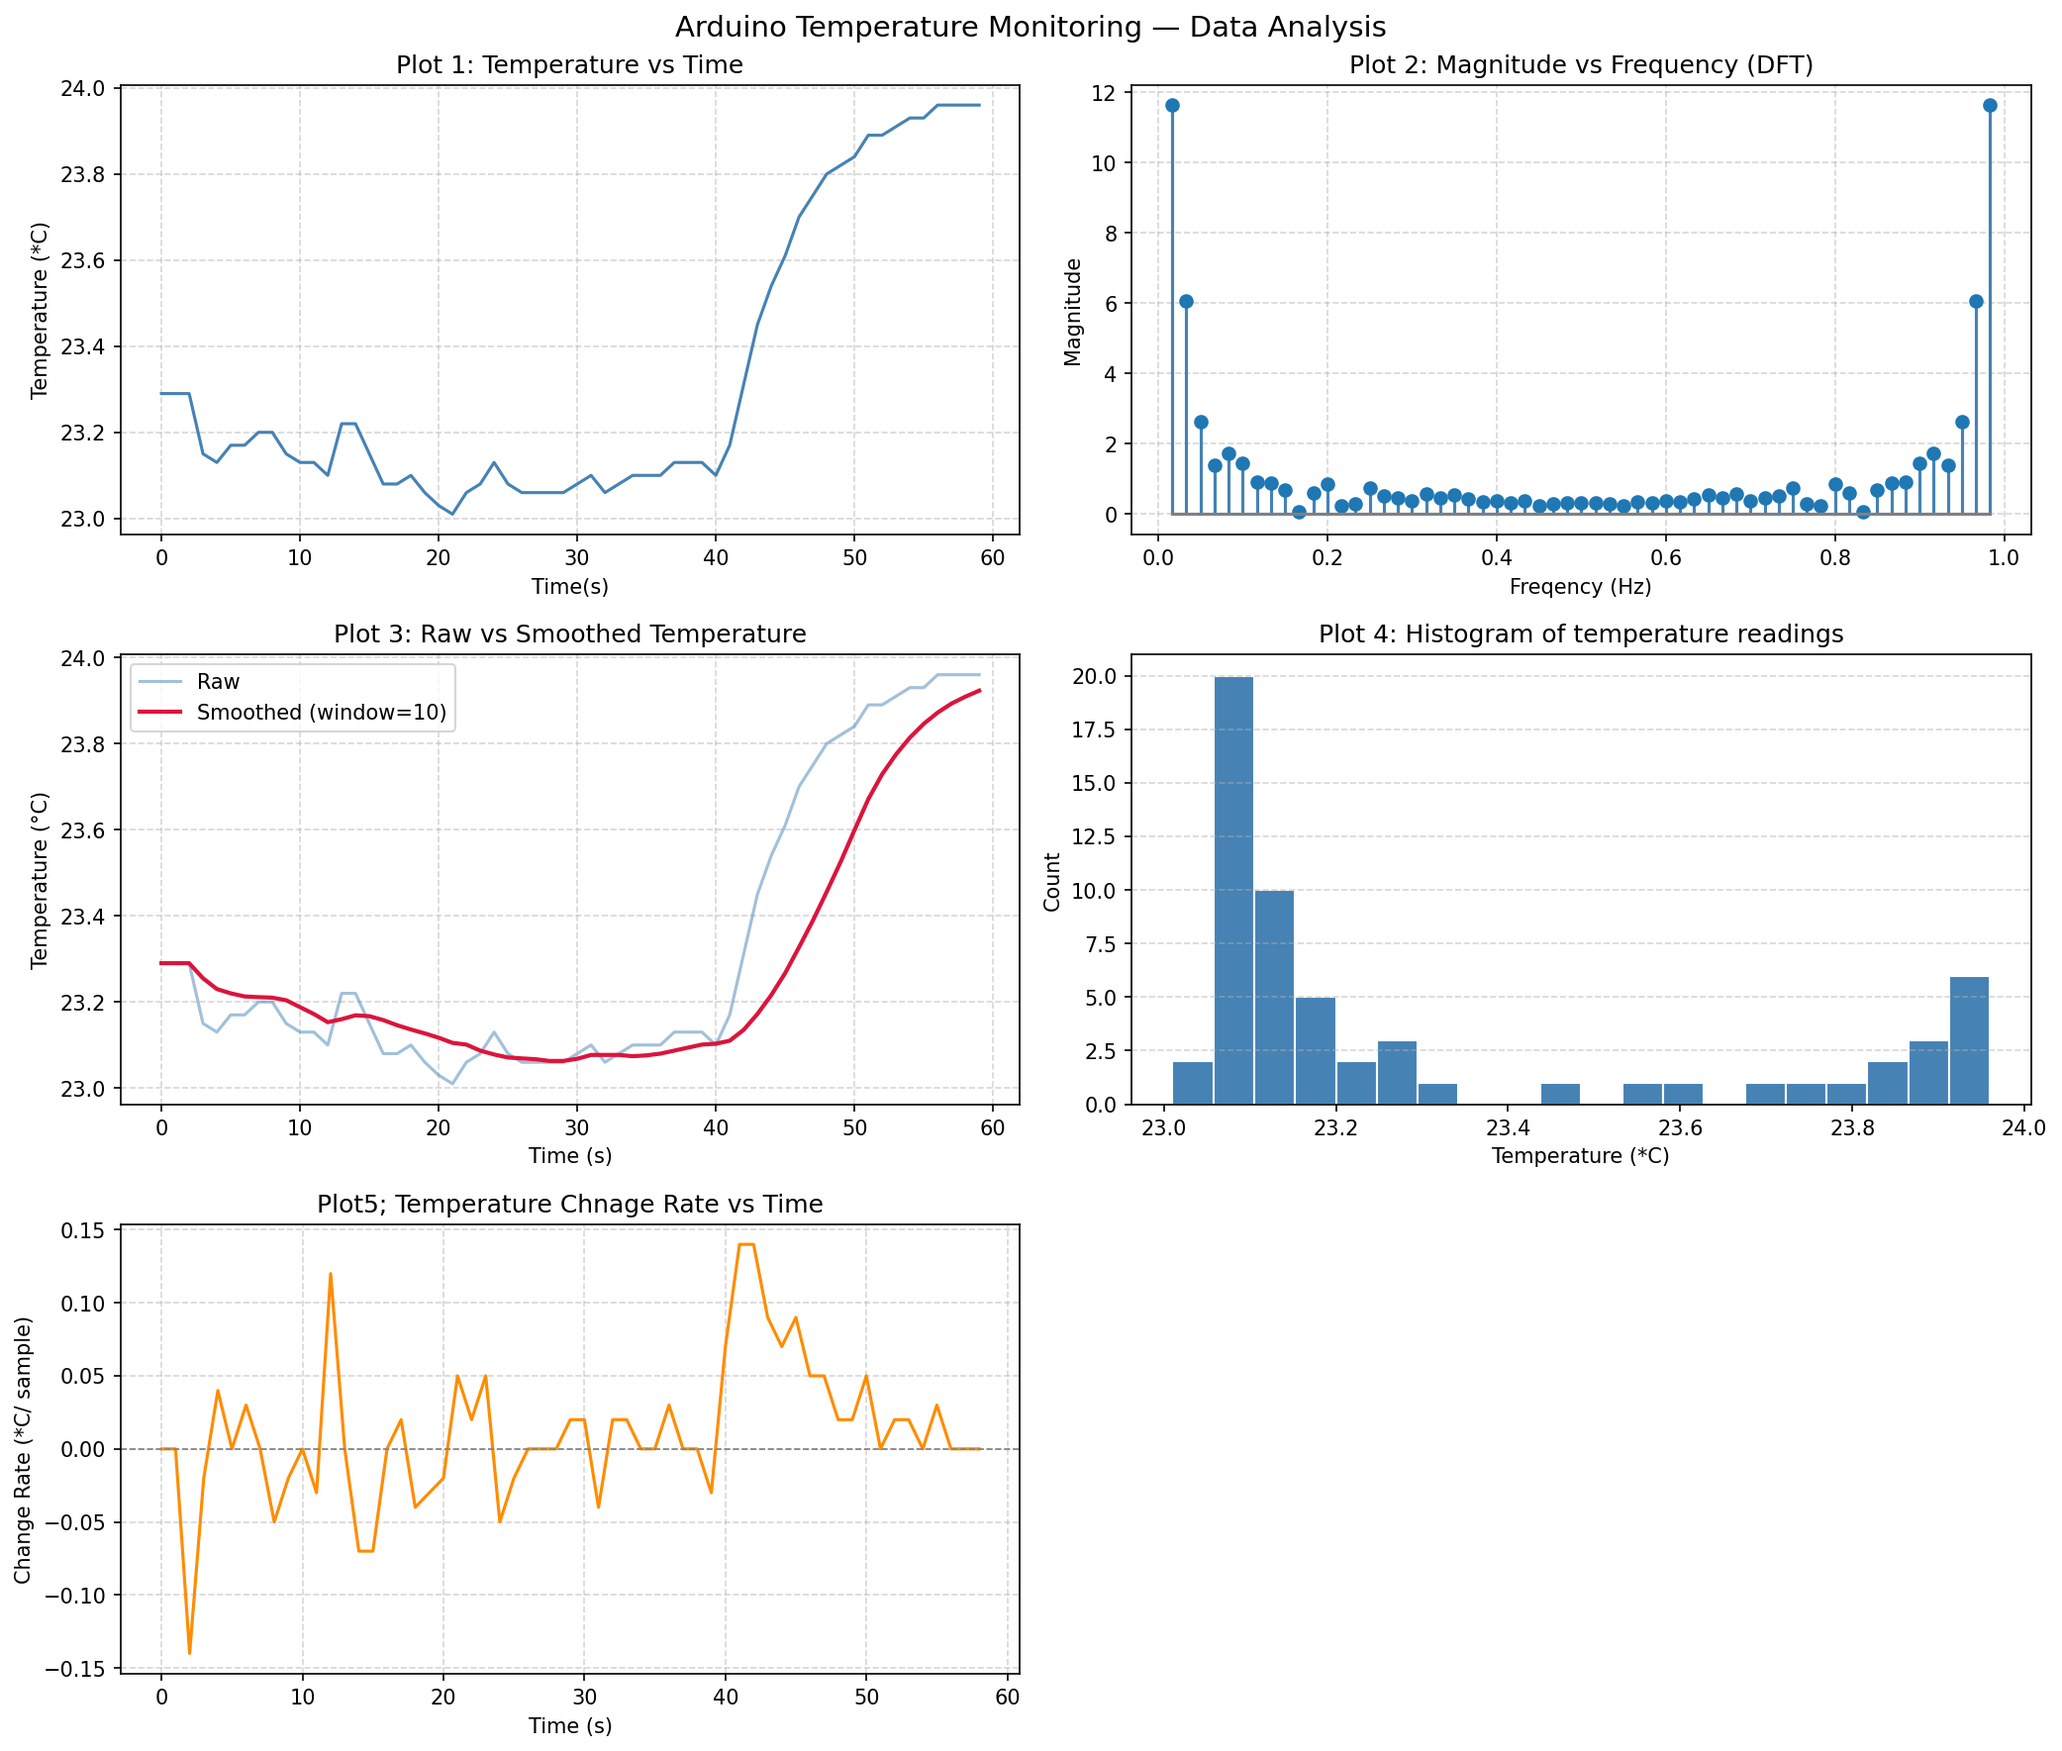
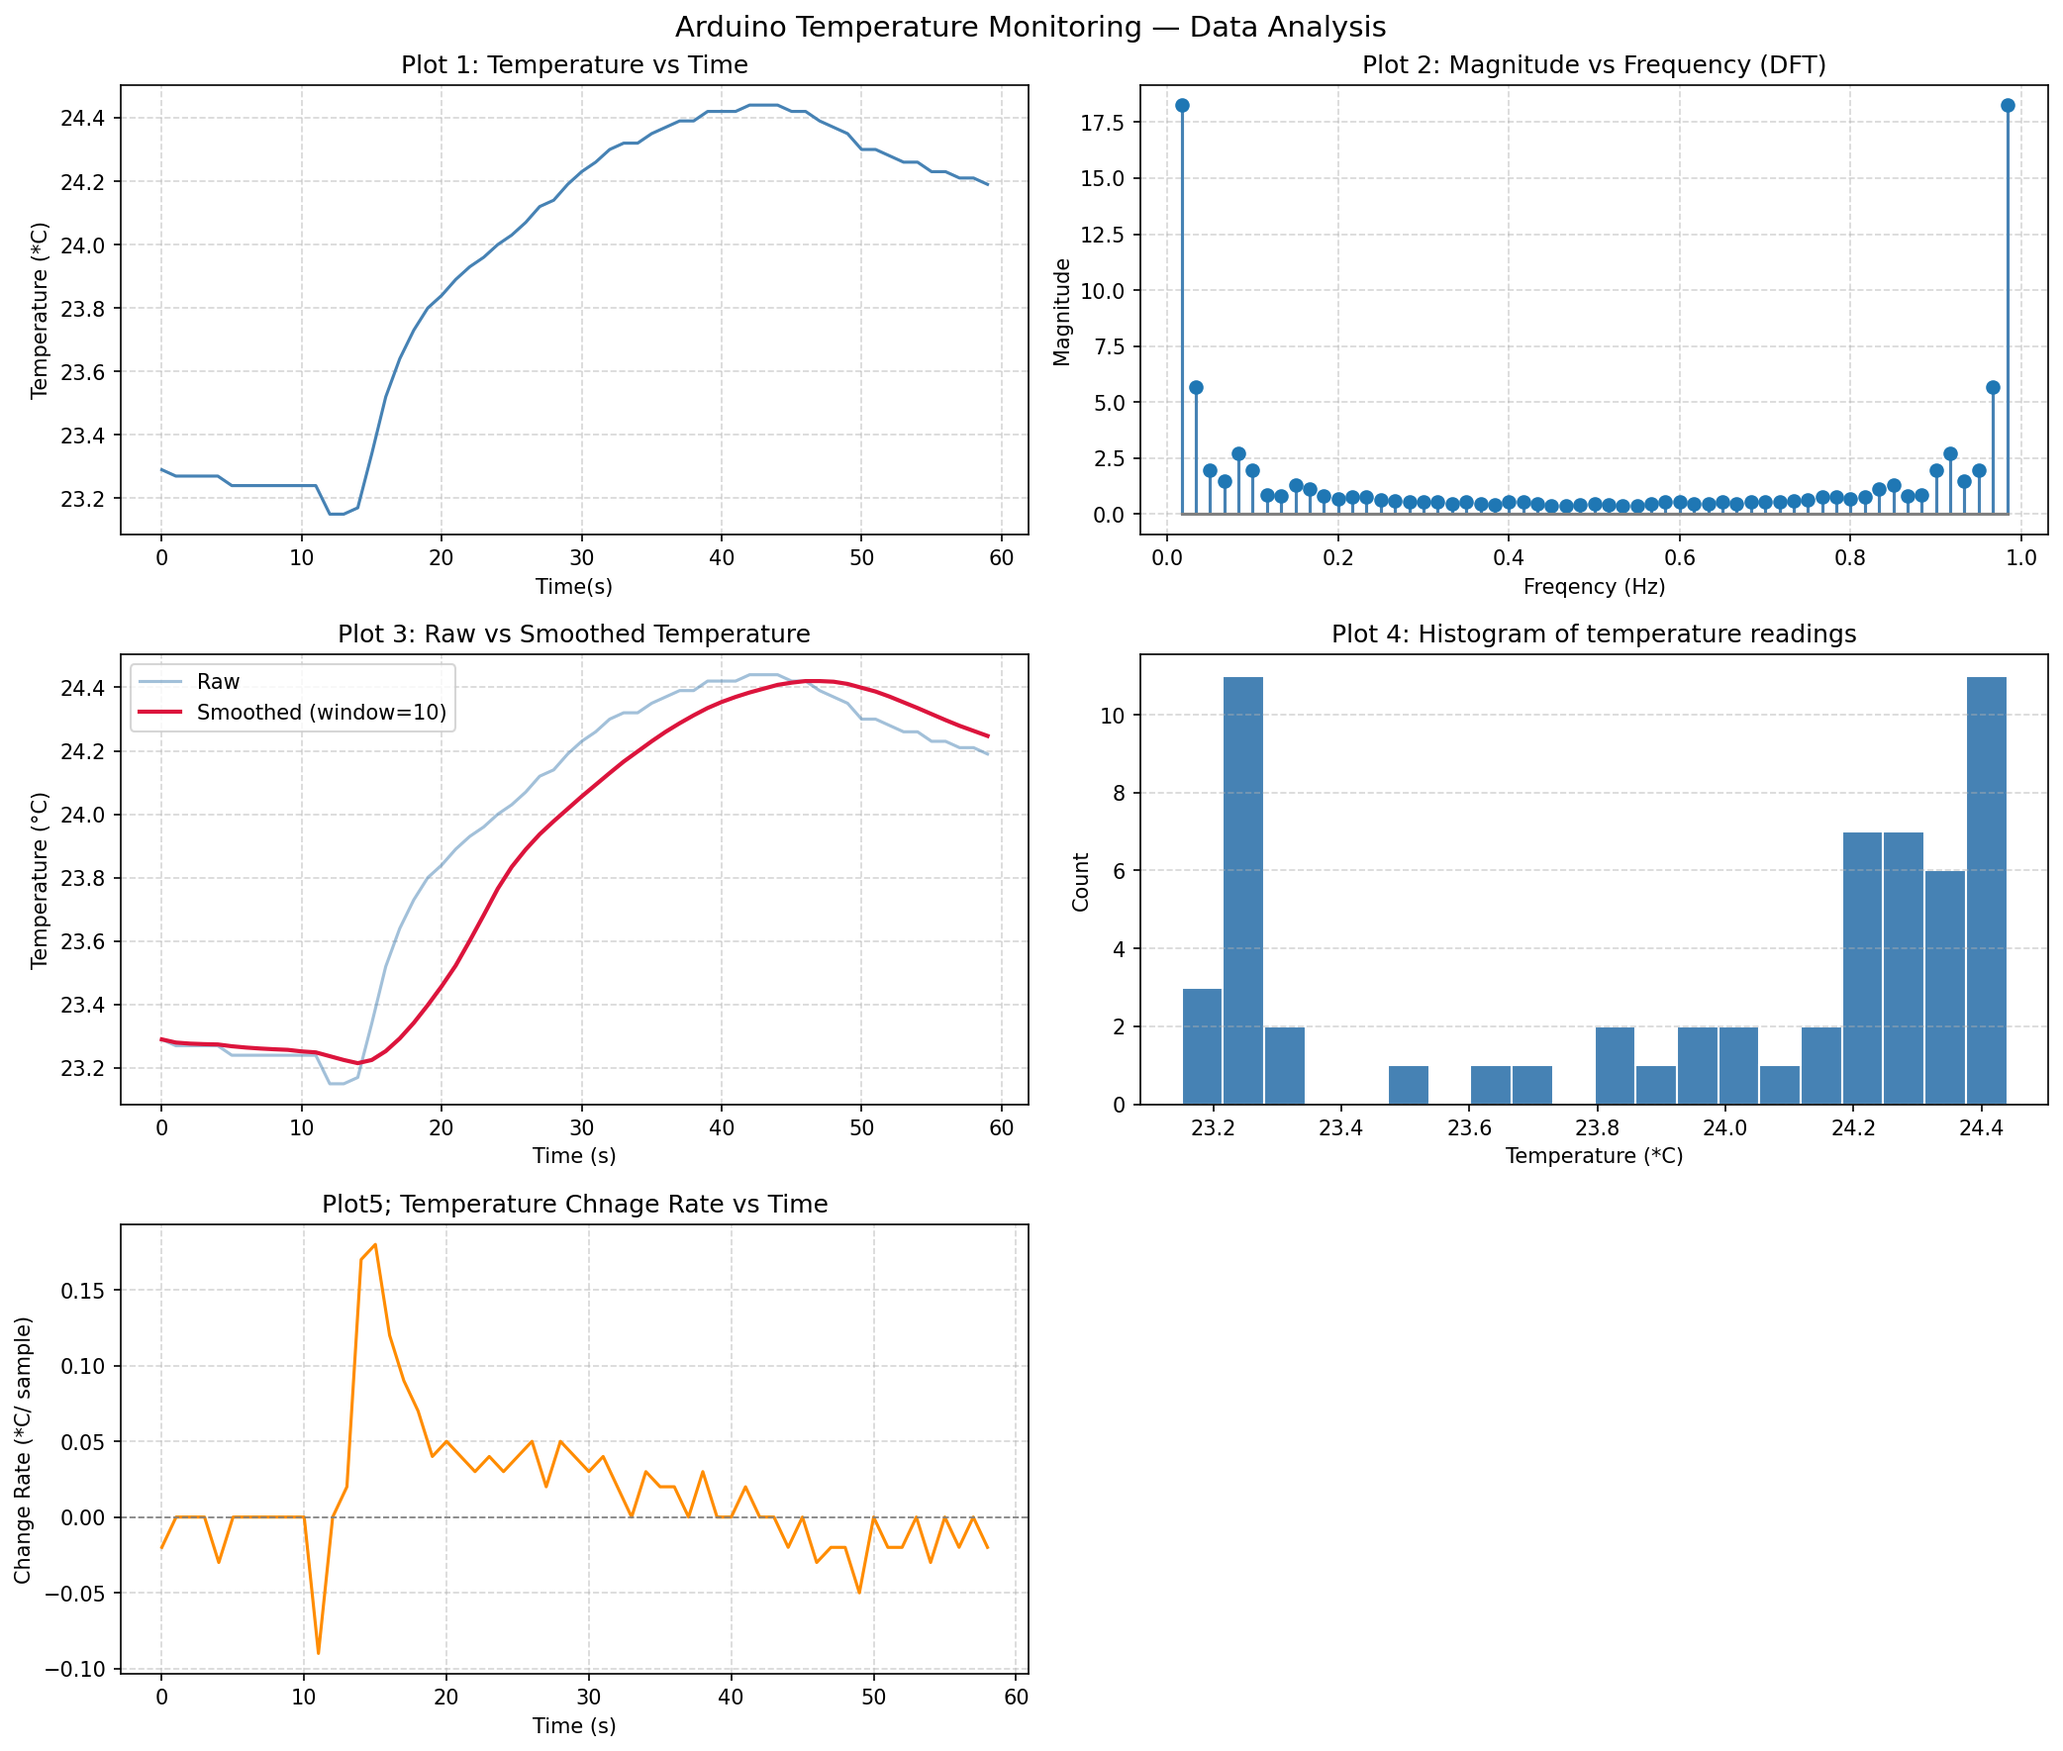
Changed the Location of the two python files, and also added the file location of each of the files mentioned in the discussion and the Running of the code.

diff --git a/documentation/how_to_run_code.md b/documentation/how_to_run_code.md
@@ -4,13 +4,11 @@ The way to run the python code is to use run.ps1 .The code has been adapted to r
 Arduino:
 This comes as multiple steps, as I needed to use multiple files to do each of the processes.
 
-Close 
-
-The order is uploading the file temperature_optimisation (insert filepath) into the arduino. I had better results using the Arduino IDE to upload the code to the arduino, but if there is no problems with the VScode setup on your end then hopefully it should be fine.
+The order is uploading the file temperature_optimisation (F530917_25WSA032_Coursework_V1103\arduino\Arduino Task\temperature_optimisation) into the arduino. I had better results using the Arduino IDE to upload the code to the arduino, but if there is no problems with the VScode setup on your end then hopefully it should be fine.
 If you go Arduino IDE route:
 
 Upload the code to the Arduino, start the serial monitor, where it should wait a little while (approx 1min), then it should print all the results at once with # END being visible at the end of the Serial Monitor. This tests to see if it works. stop the serial monitor and close the Arduino IDE
 
-Now go back to VScode, open capture_serial.py located at (insert file location). run the file as you would a standard python file, click run or F5. It should do the same thing as the Arduino code where it should wait a little while (approx 1min), except the difference is the values are now stored in a CSV. The CSV file will be generated automatically. The end should say "Saved to temperature_data.csv"
+Now go back to VScode, open capture_serial.py located at (F530917_25WSA032_Coursework_V1103\arduino\Arduino Task\test). run the file as you would a standard python file, click run or F5. It should do the same thing as the Arduino code where it should wait a little while (approx 1min), except the difference is the values are now stored in a CSV. The CSV file will be generated automatically. The end should say "Saved to temperature_data.csv"
 
-Once it has said the values have been stored, run the analyse_temperature.py file (insert file location), and this should generate 5 graphs according to the brief. This will also save those graphs into temperature_analysis_live.png, which can be further analysed.
+Once it has said the values have been stored, run the analyse_temperature.py file (F530917_25WSA032_Coursework_V1103\arduino\Arduino Task\test), and this should generate 5 graphs according to the brief. This will also save those graphs into temperature_analysis_live.png, which can be further analysed (File location: F530917_25WSA032_Coursework_V1103).

diff --git a/documentation/Discussion.md b/documentation/Discussion.md
@@ -1,7 +1,7 @@
 The experiment:
 Warmed up the sensor by hand, and let it cool to room temperature
 
-The graph example I will be taking is in the temperature_analysis.png.
+The graph example I will be taking is in the temperature_analysis.png in file location F530917_25WSA032_Coursework_V1103.
 
 
 Time-Domain Behaviour:
